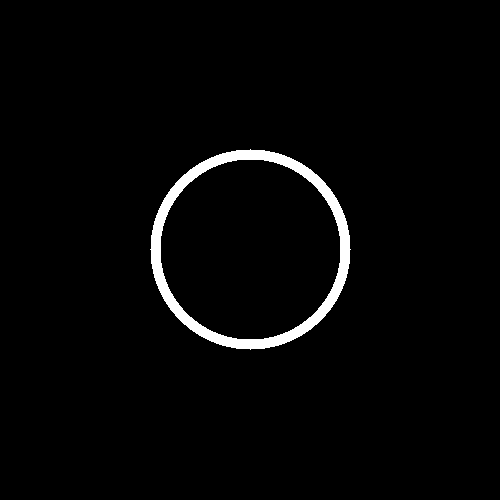
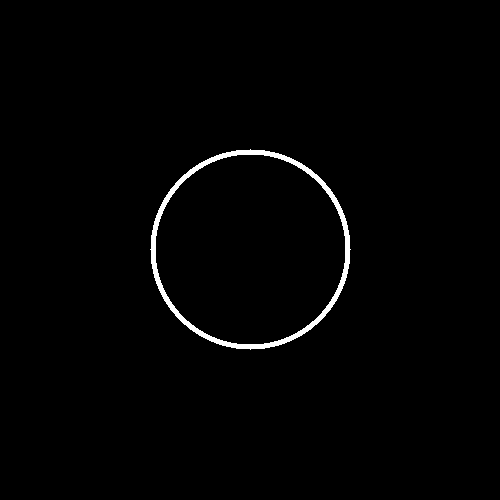
exos 13-14

diff --git a/src/main.cpp b/src/main.cpp
@@ -151,7 +151,7 @@ void disk(sil::Image &image)
 void circle(sil::Image &image)
 {
     float radius = 100;
-    float thickness = 10;
+    float thickness = 5;
 
     for (int x = 0; x < image.width(); x++)
     {
@@ -176,22 +176,54 @@ void animation(sil::Image &image)
 {
     float radius = 100;
 
-    for (int x = 0; x < image.width(); x++)
+    for (int center = 0; center < image.width(); center += 20)
     {
-        for (int y = 0; y < image.height(); y++)
+        for (int x = 0; x < image.width(); x++)
         {
-            glm::vec2 position{x, y};
-            float distance = glm::length(position - glm::vec2(x, image.height() / 2));
+            for (int y = 0; y < image.height(); y++)
+            {
+                glm::vec2 position{x, y};
+                float distance = glm::length(position - glm::vec2(center, image.height() / 2));
 
-            if (distance <= radius)
-            {
-                image.pixel(x, y) = glm::vec3(1);
-            }
-            else
-            {
-                image.pixel(x, y) = glm::vec3(0);
+                if (distance <= radius)
+                {
+                    image.pixel(x, y) = glm::vec3(1);
+                }
+                else
+                {
+                    image.pixel(x, y) = glm::vec3(0);
+                }
             }
         }
+
+        int frame_number = center / 20;
+        image.save("output/animation/animation" + std::to_string(frame_number) + ".png");
+    }
+}
+
+void rosace(sil::Image &image)
+{
+    float radius = 100;
+    float thickness = 5;
+    float angle = 0;
+
+    for (int i = 0; i < 6; i++)
+    {
+        for (int x = 0; x < image.width(); x++)
+        {
+            for (int y = 0; y < image.height(); y++)
+            {
+                glm::vec2 position{x, y};
+                float distance = glm::length(position - glm::vec2(image.width() / 2 + radius * cos(glm::radians(angle)), image.height() / 2 + radius * sin(glm::radians(angle))));
+
+                if (radius - thickness <= distance && distance <= radius)
+                {
+                    image.pixel(x, y) = glm::vec3(1);
+                }
+            }
+        }
+
+        angle += 60;
     }
 }
 
@@ -272,6 +304,11 @@ int main()
     {
         sil::Image image{500, 500};
         animation(image);
-        image.save("output/animation.png");
+    }
+
+    {
+        sil::Image image{"output/circle.png"};
+        rosace(image);
+        image.save("output/rosace.png");
     }
 }
